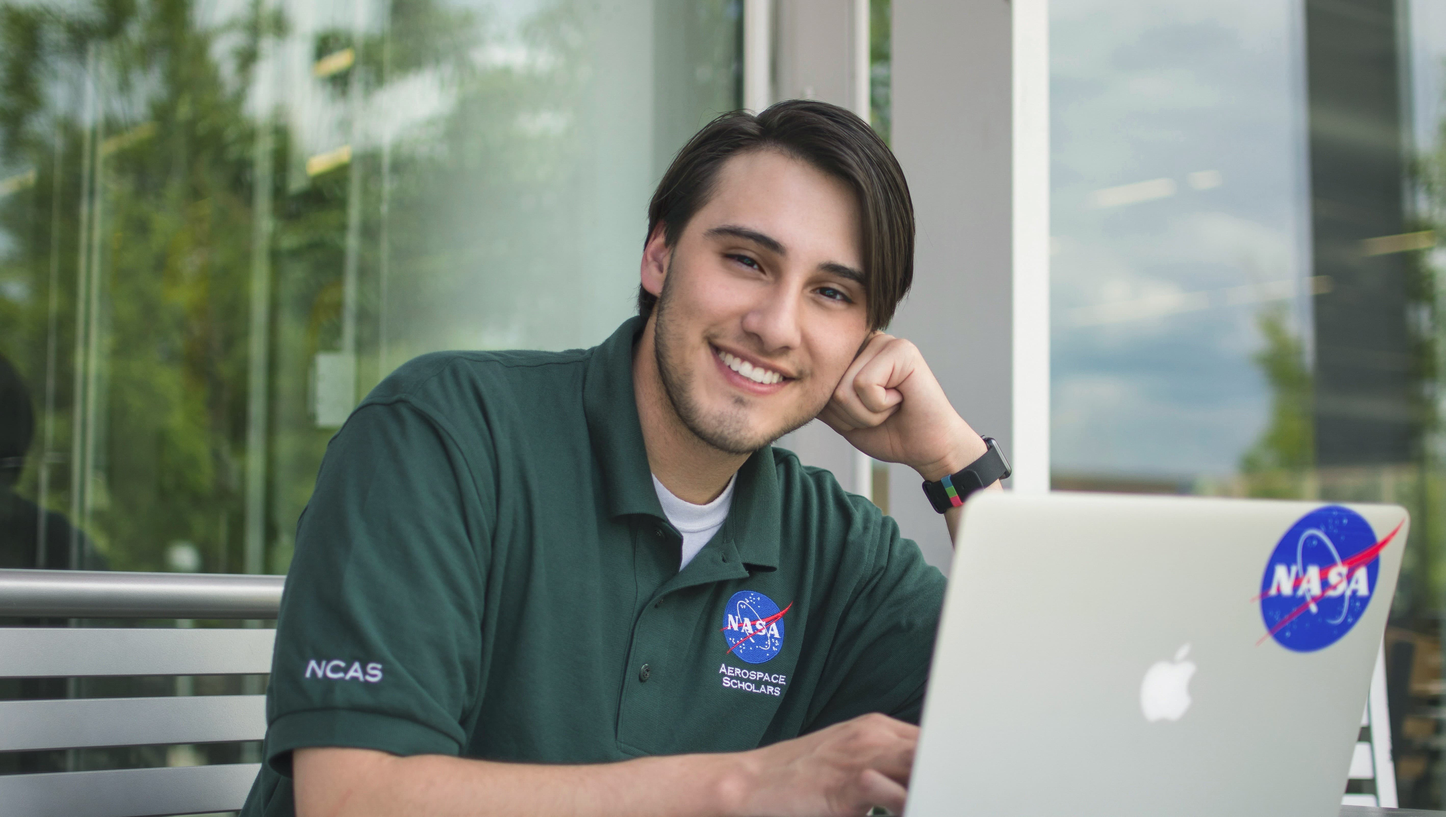
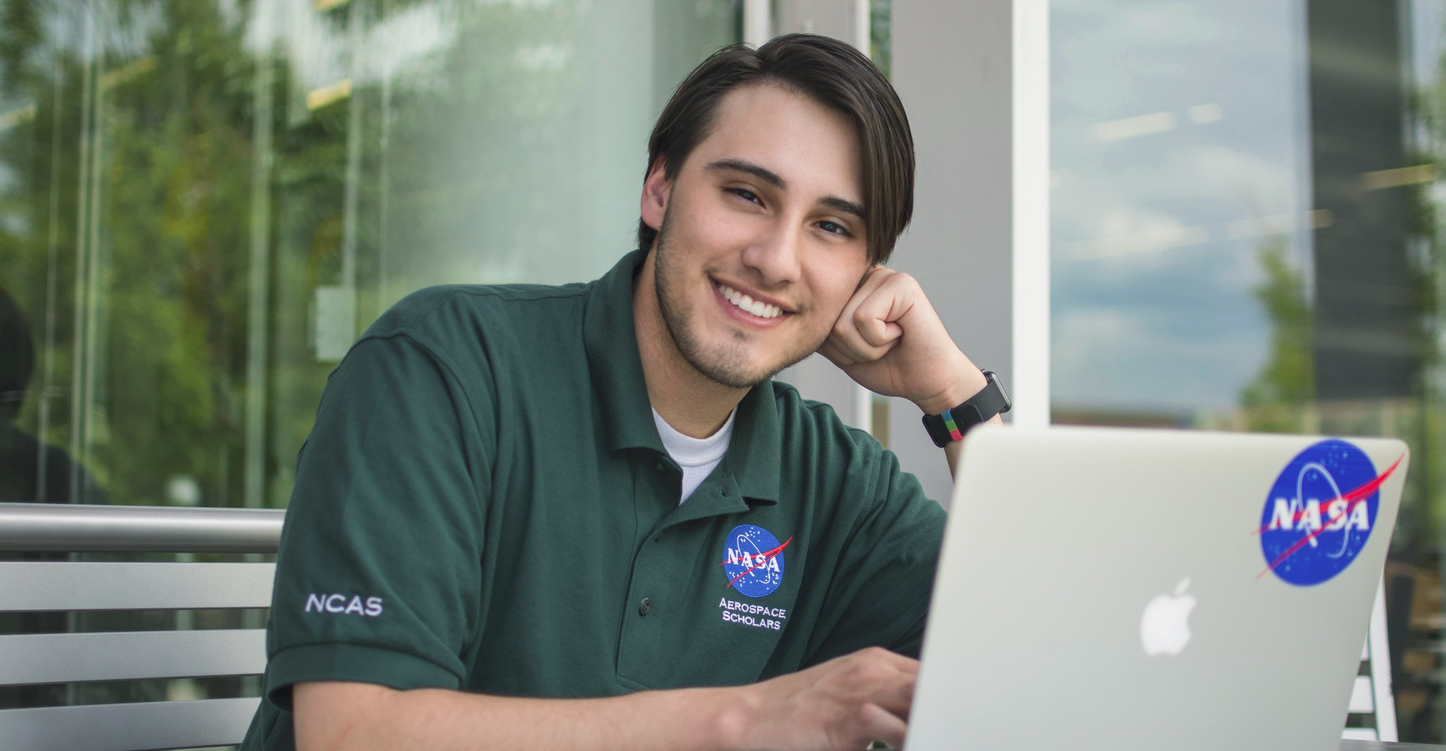
change

diff --git a/index.html b/index.html
@@ -3,6 +3,10 @@
 <head>
     <meta charset="UTF-8">
     <title>Lorenzo Mondragon</title>
+    <meta name="description" content="Lorenzo Mondragon is a Web Developer and Student based in Fort Collins, CO">
+    <meta name="keywords" content="Developer, Software, Colorado">
+    <meta name="author" content="Lorenzo Mondragon">
+    <meta name="viewport" content="width=device-width, initial-scale=1.0">
     <link rel="stylesheet" type="text/css" href="css/style.css">
 </head>
 <body>
@@ -23,7 +27,9 @@
         </nav>
     </header>
     <div class="content">
-        <div class="hero-image"></div>
+        <div class="hero-image">
+            <img src="images/lorenzo-mondragon-headshot.jpg" alt="Headshot of Lorenzo wearing a NASA polo">
+        </div>
         <main>
             <h1>About Me</h1>
             <p>As a skilled backend developer with experience in C#, Entity Framework, Microsoft SQL Server, and building RESTful API’s, I'm passionate about leveraging technology to solve complex problems. My knowledge in these technologies has enabled me to develop high-quality applications that have served hundreds of users.

diff --git a/css/style.css b/css/style.css
@@ -30,14 +30,9 @@ ol, ul {
 /*************************/
 
 
-.hero-image {
-    background-image: url("../images/lorenzo-mondragon-headshot.jpg");
-    background-color: #cccccc;
-    height: 524px;
-    background-position: center;
-    background-repeat: no-repeat;
-    background-size: cover;
-    margin-top: 0;
+.hero-image img {
+    max-width: 100%;
+    height: auto;
 }
 
 /******************/   
@@ -122,7 +117,6 @@ main {
 main h1 {
     font-size: 30px;
     font-weight: 400;
-    color:#94b49c;
     padding-bottom: 10px;
     word-spacing: 20px;
 }

diff --git a/contact/index.html b/contact/index.html
@@ -3,6 +3,7 @@
 <head>
     <meta charset="UTF-8">
     <title>Contact | Lorenzo Mondragon</title>
+    <meta name="viewport" content="width=device-width, initial-scale=1.0">
     <link rel="stylesheet" type="text/css" href="../css/contact-style.css">
 </head>
 <body>

diff --git a/youtube/index.html b/youtube/index.html
@@ -3,6 +3,7 @@
 <head>
     <meta charset="UTF-8">
     <title>Videos | Lorenzo Mondragon</title>
+    <meta name="viewport" content="width=device-width, initial-scale=1.0">
     <link rel="stylesheet" type="text/css" href="../css/youtube-style.css">
 </head>
 <body>

diff --git a/resume/index.html b/resume/index.html
@@ -3,6 +3,7 @@
 <head>
     <meta charset="UTF-8">
     <title>Resume | Lorenzo Mondragon</title>
+    <meta name="viewport" content="width=device-width, initial-scale=1.0">
     <link rel="stylesheet" type="text/css" href="../css/resume-style.css">
 </head>
 <body>

diff --git a/css/resume-style.css b/css/resume-style.css
@@ -29,8 +29,6 @@ ol, ul {
 
 h1, h2, h3, h4, h5 {
     font-size: 30px;
-    color: #94b49c;
-
 }
 
 .content {

diff --git a/css/youtube-style.css b/css/youtube-style.css
@@ -29,7 +29,6 @@ ol, ul {
 
 h1, h2, h3 {
     font-size: 30px;
-    color: #94b49c;
 }
 
 .name {
